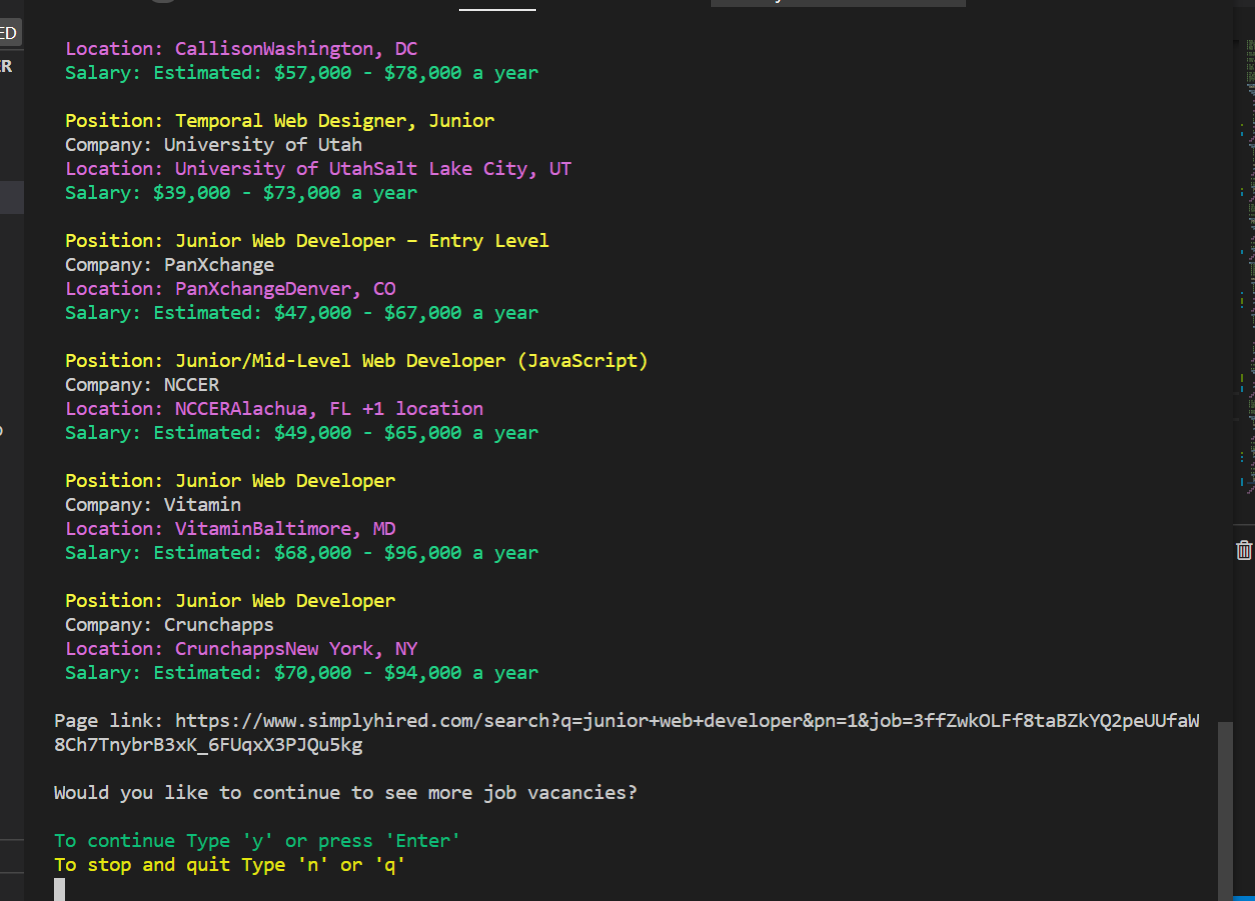
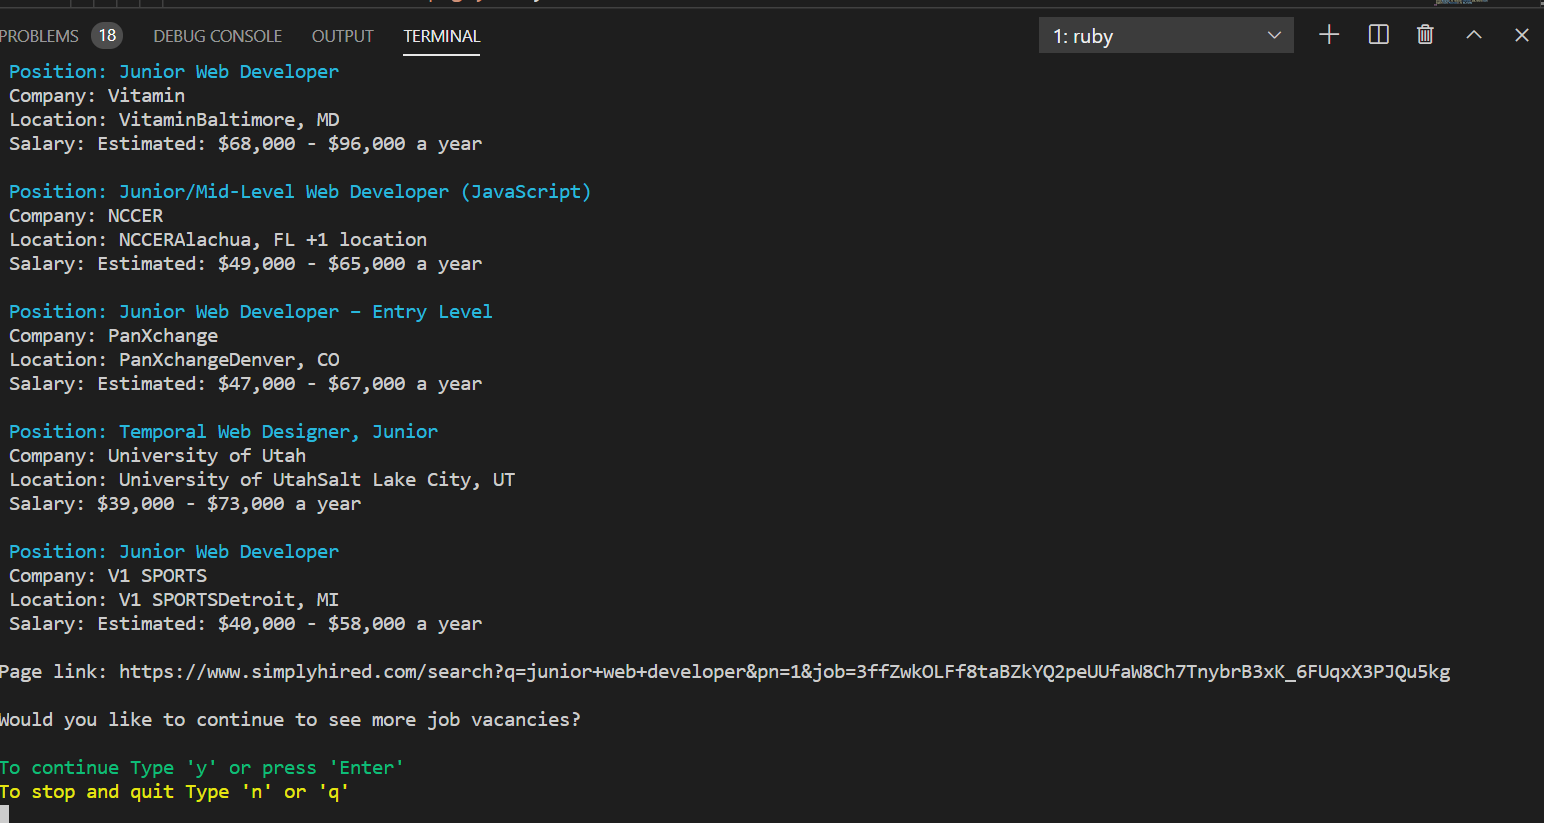
fix linters errors

diff --git a/spec/start_search_spec.rb b/spec/start_search_spec.rb
@@ -1,9 +1,10 @@
-
 require_relative '../lib/start_search'
 describe Iterate do
   let(:display) { described_class.new(@total, @page) }
   describe '#iterate' do
     context 'when the list is given with its keys and values present' do
+    # rubocop:disable  Metrics/BlockLength
+
       it 'checks the various parts of the website and returns the job vacancies available' do
         list = {
           Position: 'Junior Web Developer',
@@ -44,8 +45,10 @@ describe Iterate do
         allow(display).to receive(:iterate).and_return(list)
         expect(list[:Address]).to be_nil
       end
+    # rubocop:enable  Metrics/BlockLength
     end
   end
+
   describe '#start' do
     it 'should return true for the start method' do
       allow(display).to receive(:start).and_return(true)

diff --git a/bin/main.rb b/bin/main.rb
@@ -1,5 +1,3 @@
-# frozen_string_literal: true
-
 # !/usr/bin/env ruby
 
 # rubocop:disable Layout/LineLength
@@ -58,10 +56,10 @@ def outcome
     i = 0
     puts "\t Page #{@page} \n\n"
     while i < jobs.count
-      puts " Position: #{jobs[i][:title]}".yellow.bold
+      puts " Position: #{jobs[i][:title]}".cyan.bold
       puts " Company: #{jobs[i][:company]}"
-      puts " Location: #{jobs[i][:location]}".magenta.bold
-      puts " Salary: #{jobs[i][:salary]}".green.bold
+      puts " Location: #{jobs[i][:location]}"
+      puts " Salary: #{jobs[i][:salary]}"
       puts ''
       sleep(0.1)
       i += 1

diff --git a/spec/spec_helper.rb b/spec/spec_helper.rb
@@ -1,4 +1,3 @@
-
 # This file was generated by the `rspec --init` command. Conventionally, all
 # specs live under a `spec` directory, which RSpec adds to the `$LOAD_PATH`.
 # The generated `.rspec` file contains `--require spec_helper` which will cause

diff --git a/lib/start_search.rb b/lib/start_search.rb
@@ -1,4 +1,3 @@
-
 # rubocop:disable Layout/LineLength
 class Iterate
   attr_reader :total, :page

diff --git a/spec/scraper_spec.rb b/spec/scraper_spec.rb
@@ -1,4 +1,3 @@
-
 require_relative '../lib/scraper'
 
 describe Scraper do
